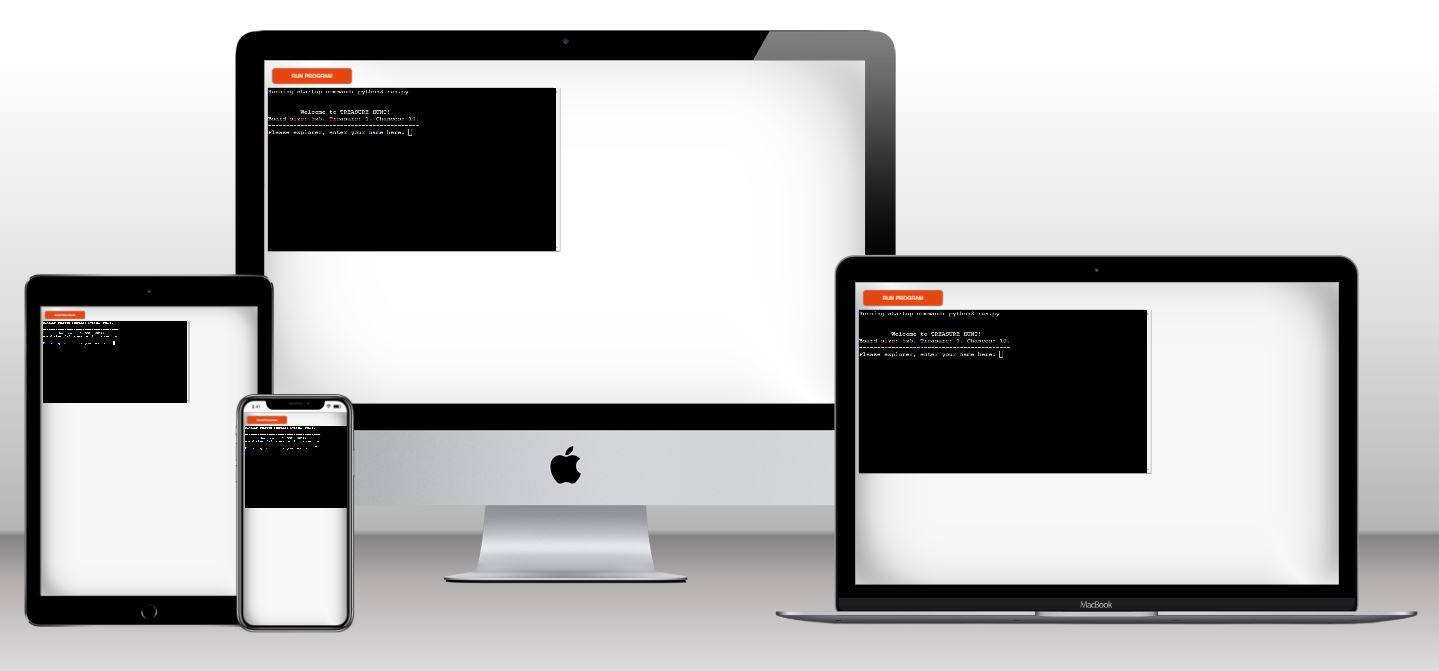
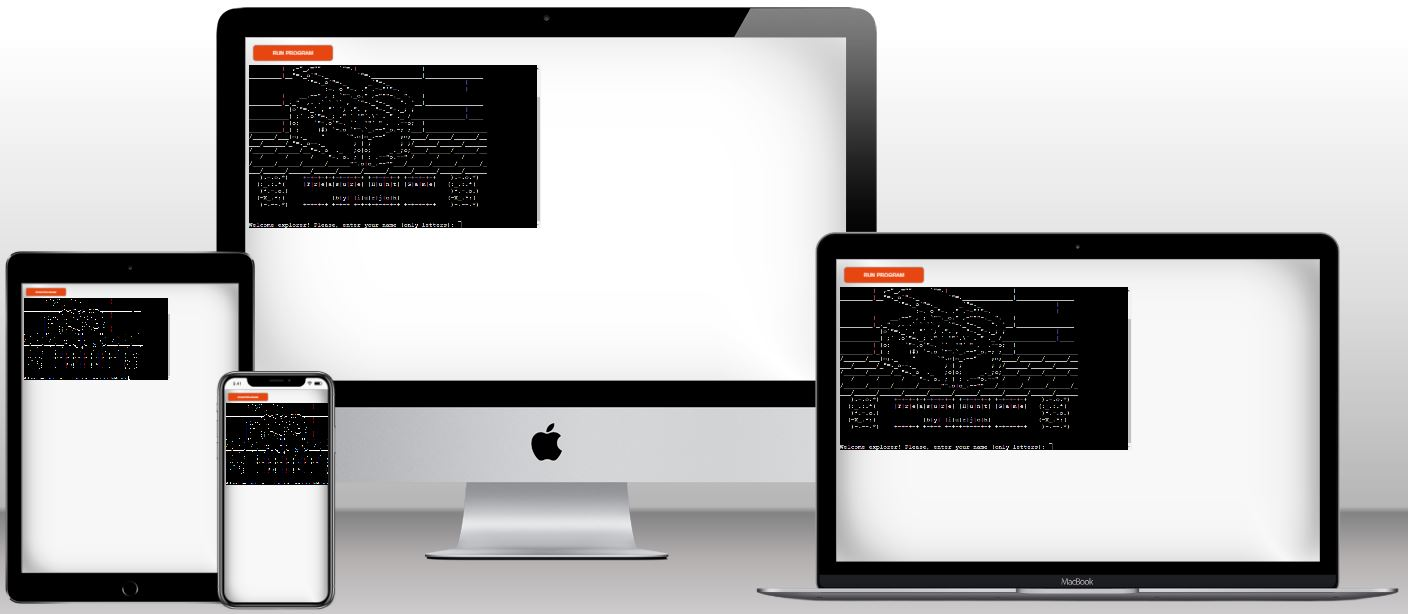
Update readme.me and minor changes in run.py

Changed region(s): [[0.0, 0.0, 1.0, 1.0]]

diff --git a/run.py b/run.py
@@ -266,4 +266,5 @@ ___/______/______/______/______/______/______/______/______/______
         else:
             print("Invalid choice. Please, enter a number between 1 and 3.")
 
+
 start_game()

diff --git a/README.md b/README.md
@@ -8,35 +8,50 @@ This game is designed to test Python basic skills acquired in the Code Institute
 
 # How to play
 
-The user is greeted with some basic information about the game such as board size, amount of treasure on the map and attempts to find it. Then you are asked to enter a name.
+The user is greeted with a treasure chest image in ASCII graphic style, and the player are asked to enter a name.
 
-Then some other information is placed and lines of text for immersion in the game context are presented. A map with dimensions of 5x5 is shown on the screen then the game starts.
+After input a valid name (only letters from A-Z) a menu with 3 different map dimensions are presented, each one for a respective game level is displayed. Next, the chosen size, the amount of treasures and available attempts will be shown.
+
+The player is then invited to choose a location to begin their exploration. Depending on the level the player chose a 3x3, 5x5 or 9x9 map will be presented and then the player will be invited to choose a number between 0 and the maximum coordinate on the right of the map (2, 4 or 8).
 
 Each round the user must enter a new coordinate with number to a row and a column subsequently.
 
 If the coordinates is outside the map dimensions or has already been chosen in a previous turn, the user will not lose any attempt but must enter new valid coordinates.
 
-If he chooses a location where the treasure is not, he will have a reduced chance of his total attempts by a maximum of 10, until he has no more chance and loses the game.
+If chooses a location where the treasure is not, will have a reduced chance of his total attempts by one, until has no more chance and loses the game.
 
-If you find the treasure before the attempts are over, you will receive a victory message.
+If the player do not find the treasure before the attempts are over, will receive citation and an end game message, followed for a question for play again or quit.
+
+If the player find the treasure before the attempts are over, will receive citation and victory message, followed for a question for play again or quit.
 
 # Features
 ## Existing Features
 ### Title and basic information
 
-A title with a clean design to introduce users to the game.
+A title screen with a graphic design to introduce users to the game.
 
-![Title](./assets/images/header.JPG)
+![Welcome](./assets/images/welcome.JPG)
 
-### Introduction
+### Welcome and Name Input
 
-A small introduction to contextualize the player in the game environment. In this field the user must choose a nickname and then receive lines of text to give more immersion.
+A short welcome greeting is presented. Then the player is invited to enter a valid name
 
-![Instructions](./assets/images/introduction.JPG)
+![Name input](./assets/images/name.JPG)
+
+### Game level
+
+The player must choose between 3 predetermined levels of difficulty. Being:
+1. Easy (board size: 3x3)
+2. Medium (board size: 5x5)
+3. Hard (board size: 9x9)
+
+Here, only numbers 1, 2 and 3 are accepted as inputs.
+
+![Level](./assets/images/level.JPG)
 
 ### Board
 
-In this area the game itself develops. A grid composed of 25 cells arranged in a 5x5 matrix where only a certain coordinate contains the treasure.
+In this area the game itself develops. A grid composed of a matrix cells where only a certain coordinate contains the treasure.
 
 With each new game, this treasure is placed at random for the user to try to find it, so the replay factor makes the game more inviting.
 
@@ -44,33 +59,55 @@ With each new game, this treasure is placed at random for the user to try to fin
 
 ### Turns
 
-All the player's possibilities are shown on the map and each turn the user must choose a number between 0 and 4 for both the row and the column.
+All the player's possibilities are shown on the map and each turn the user must choose a number between 0 and the right border (maximum size of the matriz -1) for both the row and the column.
 
 The chosen coordinates will be are marked on the map with an X. In these places there were no treasures, so they should not be re-chosen. A new turn will start again asking the player what the new coordinates will be and the player will have one less try to find the treasure.
 
 If the location has the treasure hidden in it, then the user has discovered it and won the game.
 
-![No treasure map marked](./assets/images/no%20treasure%20map.JPG)
+![Guesses](./assets/images/guesses.JPG)
 
 ### Input validation and error-checking
 
-If the coordinates are off the map, that is, with numbers that are not between 0 and 4 for both rows and columns, an error message will be displayed on the screen but no attempt will be lost by the user, which will keep their chances. same as the previous turn.
+If the coordinates are off the map, that is, with numbers that are not between 0 and maximum range of the chosen level, for both rows and columns, an error message will be displayed on the screen but no attempt will be lost by the user, which will keep their chances. Same as the previous turn.
 
-![Error out of map](./assets/images/error%20out%20of%20map.JPG)
+![Outside](./assets/images/outside.JPG)
 
 If the coordinates are equal to some that had been previously chosen by the user, an error message will be displayed on the screen and, in the same way as the previous one, no penalty will occur in relation to the user's attempts.
 
-![Error same coordinates](./assets/images/error%20same%20coordinates.JPG)
+![Same](./assets/images/same.JPG)
+
+If the player enters any value that is not valid, this being an empty space, non-integer numbers, negatives, fractions, letters, signs or special characters, an error will be displayed, the player will be invited to choose his coordinates again, this time using only numbers valid for chosen game level(size), without losing a previous attempt.
+
+![Invalid](./assets/images/invalid.JPG)
 
 ### End Game Rules
 
-The game will end when the user has used up all their attempts and has not found the treasure.
+#### Treasure Not Found
 
-![Loss](./assets/images/loss.JPG)
+After spending all available attempts, the player did not find the treasure and so the game comes to an end with the player's defeat.
 
-Or when within his 10 chances he manages to find the exact location of the treasure.
+Note that all the player's attempts have been recorded on the board with "X", while the location of the treasure is shown with the letter "T". This location is also written in the game.
+
+![Defeat](./assets/images/defeat.JPG)
+
+#### Treasure Found
+
+When within his chances the player manages to find the exact location of the treasure a win message will be displeyd, and the location of the treasure is also displayed with the letter "T" on the board.
 
 ![Win](./assets/images/win.JPG)
+
+## Restart
+
+When the game comes to an end, in both winning and losing situations, the player will be able to choose whether to continue playing.
+
+If you accept, you will choose the desired difficulty for your new game again and then the loop of a new game starts keeping the player's name, however, the treasure will have its location randomized again.
+
+![restartyes](./assets/images/restartyes.JPG)
+
+If the player does not want to continue playing at the end of a game, he will find a thank you message for having played and will be invited to come back soon.
+
+![restarno](./assets/images/restartno.JPG)
 
 ## Features to Increment
 - Add a vs. CPU mode to play against the computer.
@@ -83,9 +120,12 @@ Or when within his 10 chances he manages to find the exact location of the treas
 ## Syntax test
 Python syntax checker from Extends Class and Python style guide checker from flake8 and pycodestyle 2.9.1 were used to test, verify and validate code written in python.
 
-No errors were returned from both, except "E501 line too long".
+No major errors were returned from both, except "E501 line too long" caused for some text phrases inside the game, and "W605 invalid escape sequence", "W291 trailing whitespace", "W293 blank line contains whitespace" caused by game graphics using ASCII art style.
 
-![Pep8](./assets/images/PEP8.JPG)
+![PEP8](./assets/images/PEP8.JPG)
+![flake8](./assets/images/flake8.JPG)
+![pycodestyle](./assets/images/pycodestyle.JPG)
+![run.pyterminal](./assets/images/runpyterminal.JPG)
 
 ## Defensive testing data inputs
 Here are the tests that we have conducted to ensure that the program is working correctly:
@@ -200,7 +240,8 @@ Sites such as:
 - [Youtube](https://www.youtube.com/) tutorials to learn using in a practical way some of the methods necessary to implement the desired functions for the game;
 - [Pycodestyle](https://pypi.org/project/pycodestyle/) used to validade my python code;
 - [Extends Class](https://extendsclass.com/python-tester.html) used to test my python code syntax;
-- [Slack](https://slack.com/) communities to ask questions and access answers to questions that I found in the development of the site.
+- [Slack](https://slack.com/) communities to ask questions and access answers to questions that I found in the development of the site;
+- [ASCII](https://ascii.co.uk/) where I found all the necessary material for the graphic arts present in the game and the base to create modified projects by myself.
 
 ## Media
 
